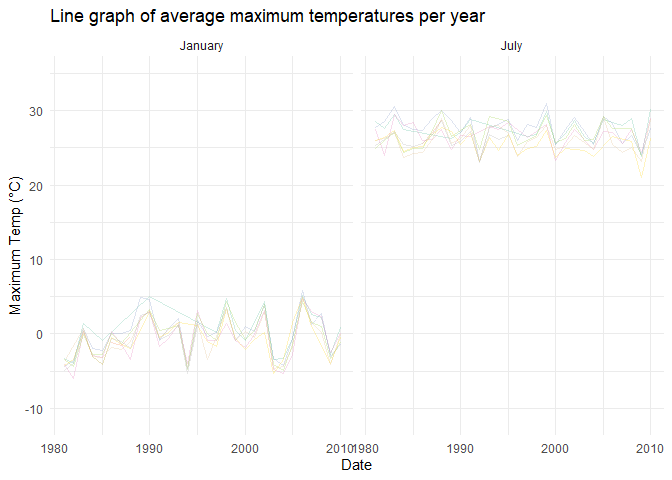
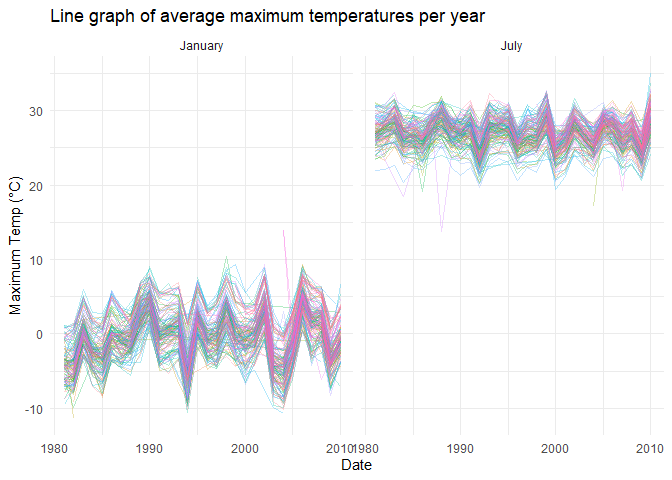
Q3: top stations & duration finished

Changed region(s): [[0.0938, 0.5312, 0.5312, 0.8438], [0.5312, 0.1875, 0.9688, 0.4062]]

diff --git a/p8105_hw3_SZ3319.md b/p8105_hw3_SZ3319.md
@@ -126,16 +126,9 @@ ny_noaa_month |>
        y = "Maximum Temp (°C)"
   ) +
   facet_wrap(. ~ month) +
-  scale_color_brewer(palette = "Set2") +
   theme_minimal() +
   theme(legend.position = "none")
 ```
-
-    ## Warning in RColorBrewer::brewer.pal(n, pal): n too large, allowed maximum for palette Set2 is 8
-    ## Returning the palette you asked for with that many colors
-
-    ## Warning: Removed 7776 rows containing missing values or values outside the scale range
-    ## (`geom_line()`).
 
 ![](p8105_hw3_SZ3319_files/figure-gfm/unnamed-chunk-6-1.png)<!-- -->
 
@@ -397,3 +390,148 @@ activity_p2
     ## `geom_smooth()` using method = 'gam' and formula = 'y ~ s(x, bs = "cs")'
 
 ![](p8105_hw3_SZ3319_files/figure-gfm/unnamed-chunk-17-1.png)<!-- -->
+
+## Problem 3
+
+### 3.0 Importe the dataset
+
+``` r
+jan20_df = 
+  read_csv("data/citibike/Jan 2020 Citi.csv") |> 
+  janitor::clean_names() |> 
+  drop_na() |> 
+  mutate(
+    year = 2020,
+    month = "January"
+  )
+```
+
+    ## Rows: 12420 Columns: 7
+    ## ── Column specification ────────────────────────────────────────────────────────
+    ## Delimiter: ","
+    ## chr (6): ride_id, rideable_type, weekdays, start_station_name, end_station_n...
+    ## dbl (1): duration
+    ## 
+    ## ℹ Use `spec()` to retrieve the full column specification for this data.
+    ## ℹ Specify the column types or set `show_col_types = FALSE` to quiet this message.
+
+``` r
+july20_df = 
+  read_csv("data/citibike/July 2020 Citi.csv") |>
+  janitor::clean_names() |> 
+  drop_na() |> 
+  mutate(
+    year = 2020,
+    month = "July"
+  )
+```
+
+    ## Rows: 21048 Columns: 7
+    ## ── Column specification ────────────────────────────────────────────────────────
+    ## Delimiter: ","
+    ## chr (6): ride_id, rideable_type, weekdays, start_station_name, end_station_n...
+    ## dbl (1): duration
+    ## 
+    ## ℹ Use `spec()` to retrieve the full column specification for this data.
+    ## ℹ Specify the column types or set `show_col_types = FALSE` to quiet this message.
+
+``` r
+jan24_df = 
+  read_csv("data/citibike/Jan 2024 Citi.csv") |> 
+   janitor::clean_names() |> 
+  drop_na() |> 
+  mutate(
+    year = 2024,
+    month = "January"
+  )
+```
+
+    ## Rows: 18861 Columns: 7
+    ## ── Column specification ────────────────────────────────────────────────────────
+    ## Delimiter: ","
+    ## chr (6): ride_id, rideable_type, weekdays, start_station_name, end_station_n...
+    ## dbl (1): duration
+    ## 
+    ## ℹ Use `spec()` to retrieve the full column specification for this data.
+    ## ℹ Specify the column types or set `show_col_types = FALSE` to quiet this message.
+
+``` r
+july24_df = 
+  read_csv("data/citibike/July 2024 Citi.csv") |> 
+   janitor::clean_names() |> 
+  drop_na() |> 
+  mutate(
+    year = 2024,
+    month = "July"
+  )
+```
+
+    ## Rows: 47156 Columns: 7
+    ## ── Column specification ────────────────────────────────────────────────────────
+    ## Delimiter: ","
+    ## chr (6): ride_id, rideable_type, weekdays, start_station_name, end_station_n...
+    ## dbl (1): duration
+    ## 
+    ## ℹ Use `spec()` to retrieve the full column specification for this data.
+    ## ℹ Specify the column types or set `show_col_types = FALSE` to quiet this message.
+
+Combine
+
+``` r
+citi_total = bind_rows(jan20_df, jan24_df, july20_df, july24_df)
+
+head(citi_total)
+```
+
+    ## # A tibble: 6 × 9
+    ##   ride_id    rideable_type weekdays duration start_station_name end_station_name
+    ##   <chr>      <chr>         <chr>       <dbl> <chr>              <chr>           
+    ## 1 4BE06CB33… classic_bike  Tuesday     15.3  Columbus Ave & W … E 53 St & Madis…
+    ## 2 26886E034… classic_bike  Wednesd…     5.31 2 Ave & E 96 St    1 Ave & E 110 St
+    ## 3 24DC56060… classic_bike  Friday       9.69 Columbia St & Riv… Grand St & Eliz…
+    ## 4 EEDC10535… classic_bike  Sunday       7.00 W 84 St & Columbu… Columbus Ave & …
+    ## 5 2CD4BD4CE… classic_bike  Friday       2.85 Forsyth St & Broo… Suffolk St & St…
+    ## 6 E18682F9A… classic_bike  Sunday      25.5  Allen St & Hester… Atlantic Ave & …
+    ## # ℹ 3 more variables: member_casual <chr>, year <dbl>, month <chr>
+
+### 3. welcome station
+
+``` r
+top_station = 
+  citi_total |> 
+  filter( month == "July" & year == 2024) |> 
+  group_by(start_station_name) |> 
+  mutate(num_rides = n())|> 
+  distinct(start_station_name, num_rides) |> 
+  ungroup() |> 
+  slice_max(order_by = num_rides, n = 5)
+  
+
+print(top_station)
+```
+
+    ## # A tibble: 5 × 2
+    ##   start_station_name       num_rides
+    ##   <chr>                        <int>
+    ## 1 Pier 61 at Chelsea Piers       163
+    ## 2 University Pl & E 14 St        155
+    ## 3 W 21 St & 6 Ave                152
+    ## 4 West St & Chambers St          150
+    ## 5 W 31 St & 7 Ave                145
+
+### 3. time effect
+
+``` r
+ride_duration = citi_total |> 
+  group_by(year, month, weekdays) %>%
+  summarise(median_duration = median(duration, na.rm = TRUE), .groups = 'drop')
+
+ide_duration_plot <- ggplot(ride_duration, aes(x = weekdays, y = median_duration, fill = month)) +
+  geom_bar(stat = "identity", position = "dodge") +  # 使用条形图
+  facet_wrap(~ year) +  # 按年份分面
+  labs(title = "Median Ride Duration by Day of the Week and Month",
+       x = "Day of the Week",
+       y = "Median Ride Duration (seconds)",
+       fill = "Month") +
+  theme_minimal()
+```
